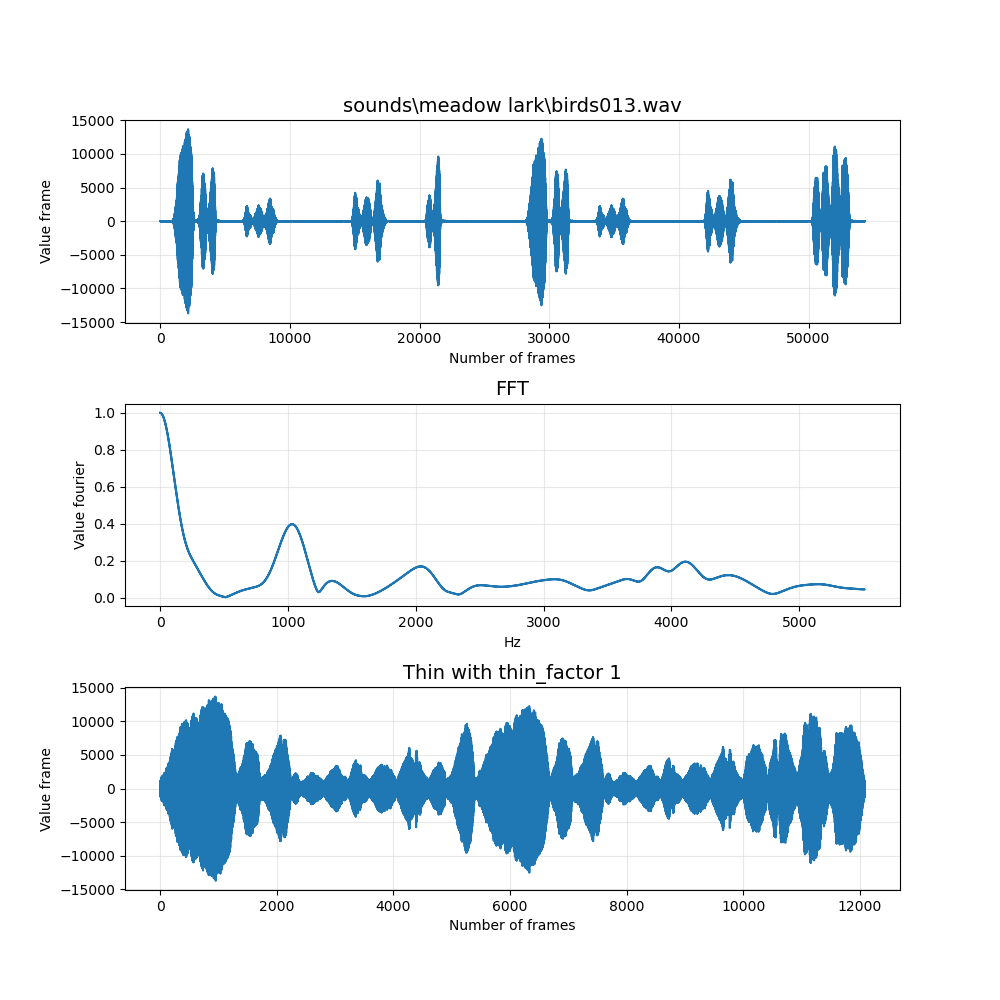
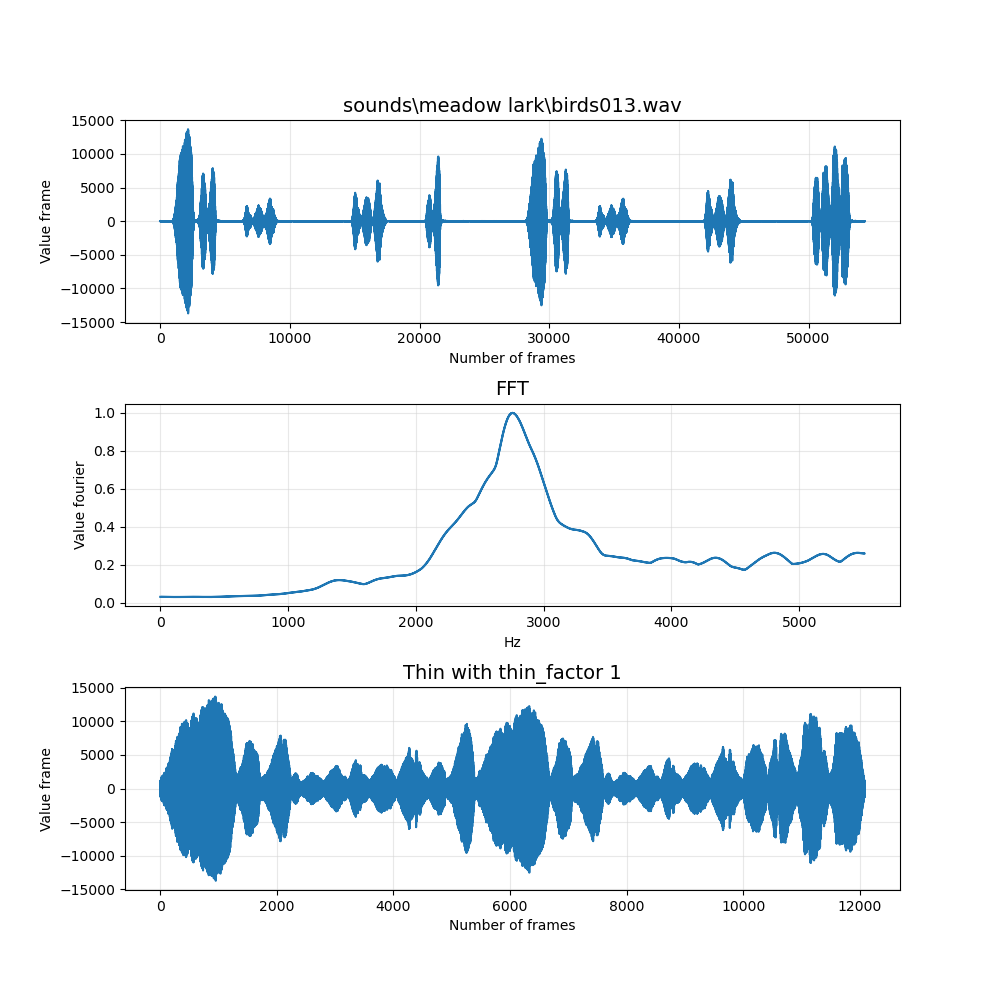
added right fft

diff --git a/wav_vis.py b/wav_vis.py
@@ -12,7 +12,7 @@ def thinsamples(samples, thin_factor):
     for i in samples:
         if np.absolute(i) > average * thin_factor:
             thinned_samples.append(i)
-    np.asarray(thinned_samples) # превращает в массив нампая
+    thinned_samples = np.asarray(thinned_samples) # превращает в массив нампая
     return thinned_samples
 
 
@@ -39,11 +39,16 @@ print(w.getparams())
 
 # прореживание
 thinfactor = 1
-thinned_samples = thinsamples(samples, thinfactor) # thin_crop подбирать имперически
-
-win = signal.gaussian(len(samples), std=15)
-fft = np.absolute(np.fft.fft(samples * win))
-
+thinned_samples = thinsamples(samples, thinfactor) # thin_crop подбирать эмперически
+fft = np.zeros(1024) # делаем изначальный нампай массив
+win = signal.gaussian(1024, std=15) # создаём гауссово окно размером 1024
+np.append(thinned_samples, np.zeros(len(thinned_samples)%1024)) # дополняем прорезанный массив семплов
+                                                                # до кратного 1024 нулями
+for i in range(len(thinned_samples)//1024):
+    temp = thinned_samples[i*1024:(i+1)*1024] # берём часть массива длинной 1024 элемента (семпла)
+    fft += np.absolute(np.fft.fft(temp * win)) # прибавляем к итоговому массиву результат
+                                               # оконного преобразования фурье части массива
+fft = fft / (len(thinned_samples)//1024) # делим массив на количество фрагментов, которые прибавляли
 # нормировка
 fft = fft / fft.max()
 
@@ -56,7 +61,7 @@ thin_x = np.arange(1, len(thinned_samples) + 1)
 thin_y = thinned_samples
 
 # координаты для преобразования фурье
-x_fft = np.absolute(np.fft.fftfreq(len(samples), 1 / framerate))  # вычисляет частоты
+x_fft = np.absolute(np.fft.fftfreq(1024, 1 / framerate))  # вычисляет частоты
 y_fft = fft
 
 # Постройка графика
